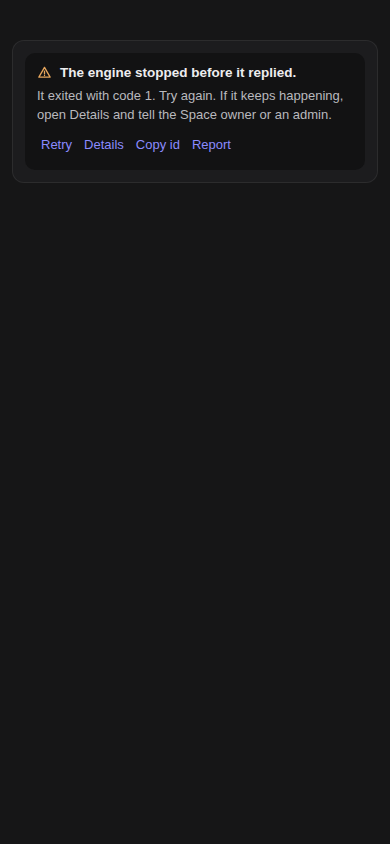
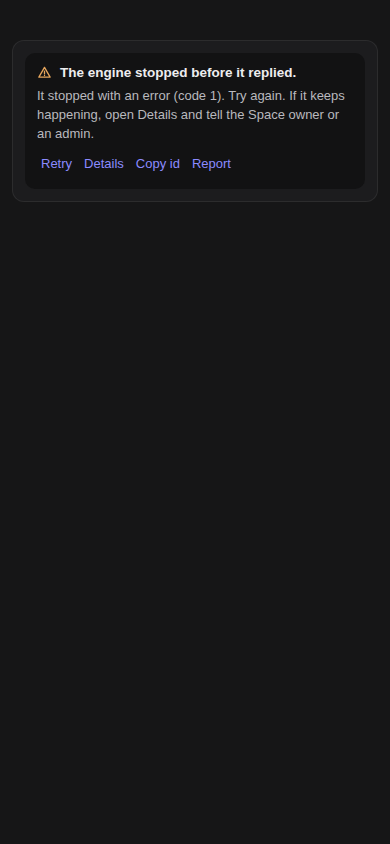
fix: server-cause error words point to vyre-server update; crash says code N

Changed region(s): [[0.0923, 0.0924, 0.8923, 0.2156]]

diff --git a/apps/app/src/places/chats/conversation/status.ts b/apps/app/src/places/chats/conversation/status.ts
@@ -176,13 +176,12 @@ export function statusView(b: MessageBlock, opts?: { admin?: boolean }): StatusV
   // the engine process stopped and said nothing a person can use: the sentence never stands alone, the exit code is the reason there is
   if (str(d.code) === "engine.cli_error") {
     // the engine named a setup cause on the server: say it plainly, and that trying again will fail the same way until it is fixed (no Retry)
-    const fix = admin === true ? "Open Console > Computers to check the server, then send the message again." : "Tell the Space owner or an admin. Send the message again once they have fixed it.";
     const why = str(d.why);
-    if (why === "sandbox") w = { message: "The engine could not start on this server.", cause: `The server will not let the sandbox start (it cannot create the isolated space the engine runs in). Trying again will fail the same way until the server is fixed. ${fix}`, retryable: false };
-    else if (why === "image") w = { message: "The engine could not start on this server.", cause: `The engine's image is not on the server. Trying again will fail the same way until it is installed. ${fix}`, retryable: false };
+    if (why === "sandbox") w = { message: "The engine could not start on this server.", cause: admin === true ? "This server needs an update before Claude Code can run here. On the server run `vyre-server update` (or ask whoever manages it), then send the message again." : "The server will not let the sandbox start. Trying again will fail the same way until the server is fixed. Tell the Space owner or an admin. Send the message again once they have fixed it.", retryable: false };
+    else if (why === "image") w = { message: "The engine could not start on this server.", cause: admin === true ? "This server needs an update before agent computers can start. On the server run `vyre-server update`, then try again." : "The engine's image is not on the server. Trying again will fail the same way until it is installed. Tell the Space owner or an admin. Send the message again once they have fixed it.", retryable: false };
     else {
       const help = admin === true ? "If it keeps happening, open Details and use Report to send it to Vyre." : "If it keeps happening, open Details and tell the Space owner or an admin.";
-      w = { ...w, message: "The engine stopped before it replied.", cause: str(d.exit) !== "" ? `It exited with code ${str(d.exit)}. Try again. ${help}` : `It gave no reason. Try again. ${help}` };
+      w = { ...w, message: "The engine stopped before it replied.", cause: str(d.exit) !== "" ? `It stopped with an error (code ${str(d.exit)}). Try again. ${help}` : `It gave no reason. Try again. ${help}` };
     }
   }
   return { kind: "error", block: { ...b, type: "error", data: { code: str(d.code), message: w.message, ...(w.cause ? { cause: w.cause } : {}), next: w.next ?? [], retryable: w.retryable, turnId: str(d.turnId), steps: [...(str(d.code) ? [["Code", str(d.code)]] : []), ["Reply", str(d.turnId)]] } } };

diff --git a/apps/app/src/places/chats/conversation/status.test.ts b/apps/app/src/places/chats/conversation/status.test.ts
@@ -178,7 +178,7 @@ test("an engine failure never stands alone: a missing sign-in, an engine that ca
   const unusable = data(statusView(block({ state: "failed", turnId: "t", code: "engine.cli_unusable" })));
   assert.match(unusable.cause ?? "", /not installed here|not signed in here|not connected/);
   const crash = data(statusView(block({ state: "failed", turnId: "t", code: "engine.cli_error", exit: "137" })));
-  assert.match(crash.cause ?? "", /exited with code 137/);
+  assert.match(crash.cause ?? "", /stopped with an error \(code 137\)/);
   const bare = data(statusView(block({ state: "failed", turnId: "t", code: "engine.cli_error" })));
   assert.ok((bare.cause ?? "").length > 0, "no reason: still says what to do, and Details holds the code");
   assert.ok(!/^The engine stopped with an error before it replied\.$/.test(crash.message));
@@ -209,8 +209,11 @@ test("an engine that stopped for a server setup cause says so, says trying again
   assert.match(member.cause ?? "", /Space owner or an admin/);
   assert.equal(member.retryable, false);
   const owner = data(statusView(block({ state: "failed", turnId: "t", code: "engine.cli_error", why: "image" }), { admin: true }));
-  assert.match(owner.cause ?? "", /image is not on the server/);
-  assert.match(owner.cause ?? "", /Console > Computers/);
+  assert.match(owner.cause ?? "", /needs an update before agent computers can start/);
+  assert.match(owner.cause ?? "", /vyre-server update/);
+  const ownerSandbox = data(statusView(block({ state: "failed", turnId: "t", code: "engine.cli_error", why: "sandbox" }), { admin: true }));
+  assert.match(ownerSandbox.cause ?? "", /needs an update before Claude Code can run here.*vyre-server update/);
+  assert.ok(!/Console/.test(ownerSandbox.cause ?? ""));
   assert.ok(!/admin\.|your admin/.test(owner.cause ?? ""));
   assert.equal(owner.retryable, false);
 });
